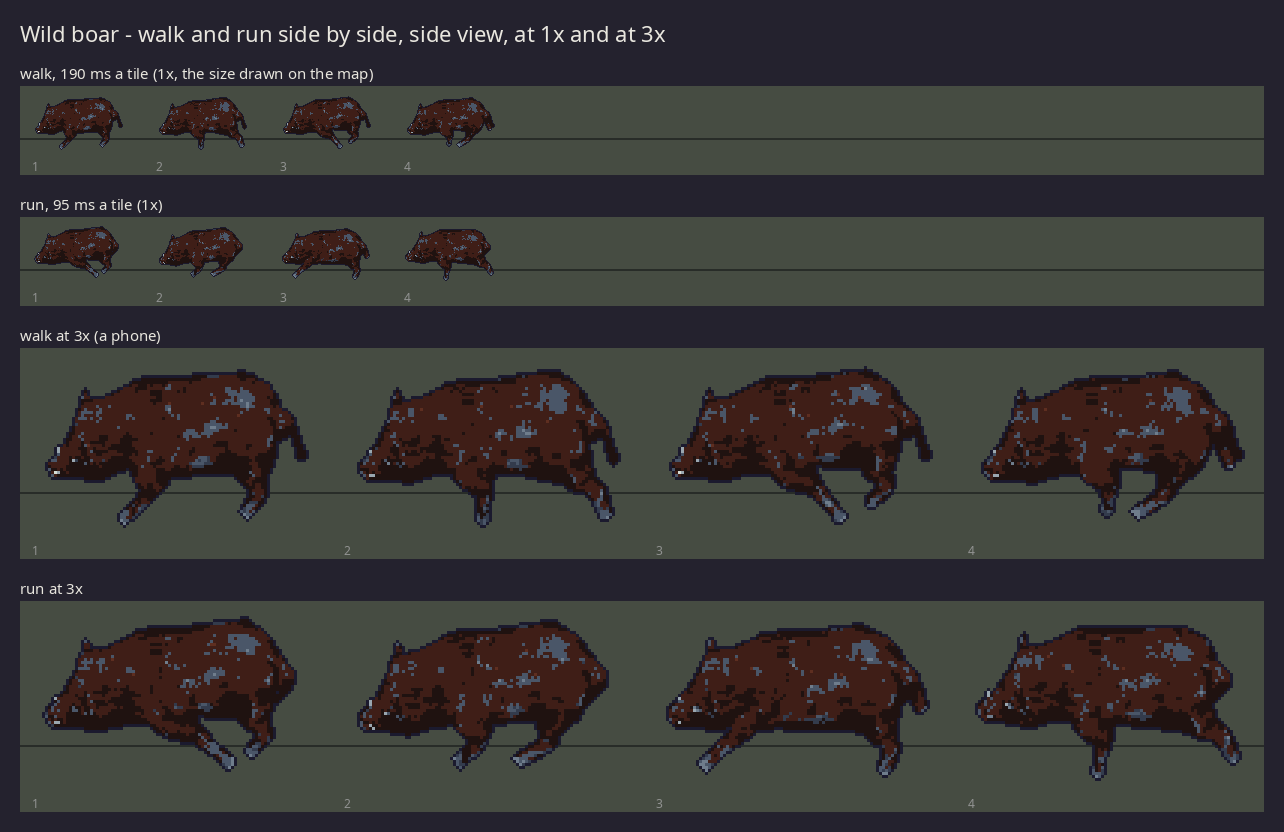
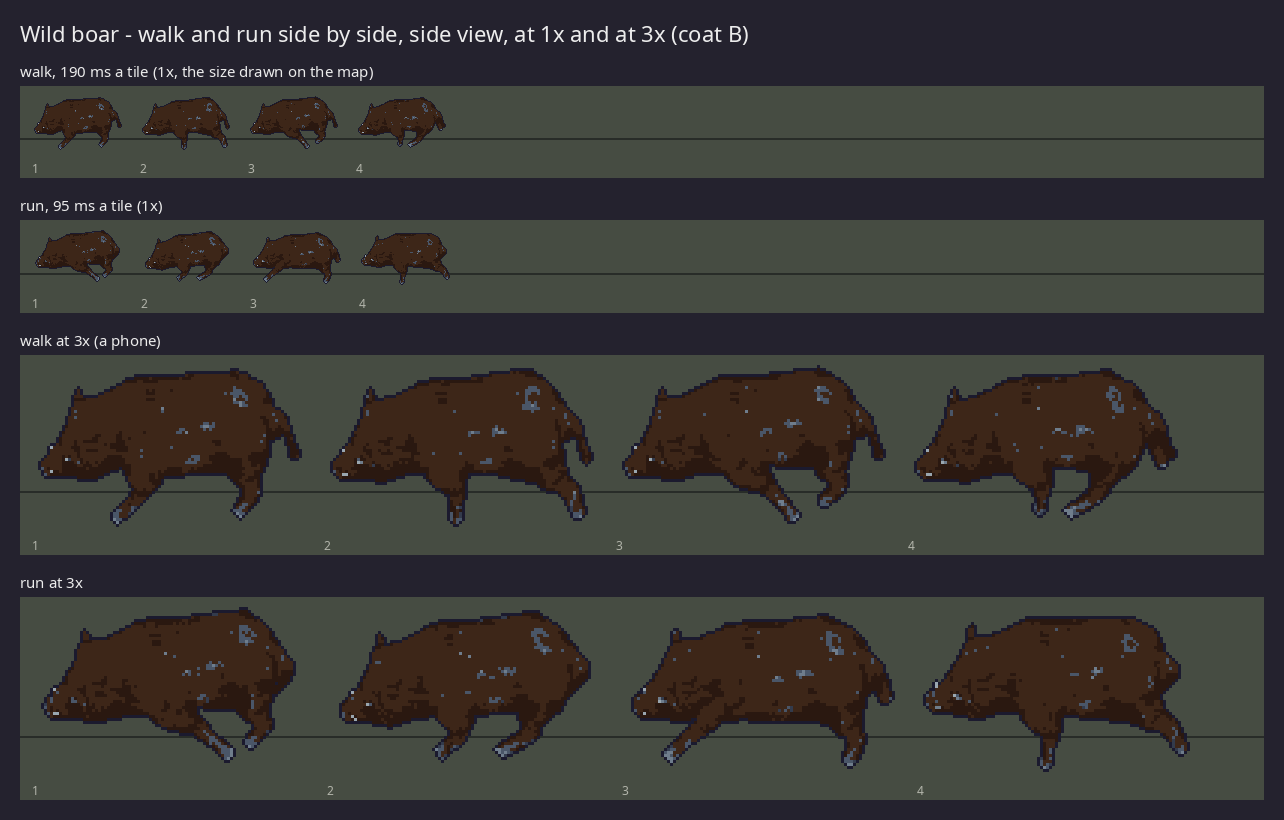
fix(anim): the boar's coat on the wood ramp, a fourth coat with no blue, and the take as a fade of any pose
- Coat: the first default (A, bark and stone) drew the coat's lighter
  hairs on stone as light blue-grey spots all over a dark brown body;
  on a phone they read as a fault of the drawing, not a grizzled boar.
  The boar target now draws on wood and stone (B): an even dark brown,
  stone down from 10.5 % to 4.4 % of the Idle (4.1 % over the six
  clips). All six clips are re-rendered and pass with the same
  measures (palette 100 %, outlined, the same silhouette, slide and
  pose rates); the tusks and the snout's disc still read at 1x and 3x.
- Coat page: four coats on the Idle's rest pose, B (the default), D,
  A (the old one) and C. D is bark for the body with the lighter hairs
  and the tusks on wood's warm light steps (bark, wood:2-5): no stone,
  so no blue.
- The clip tool takes a span of a ramp: a body ramp may be
  <id>:<a>-<b>, that shared ramp's steps a to b. D cannot be drawn
  without it: on whole bark and wood the body snaps to wood's dark
  steps, and on bark alone the hairs fall on a mid step and the tusks
  on orange. A sheet still names whole ramps, so the rich rule is
  unchanged; a test and the tools/anim README cover it, and D renders
  all six clips with palette 100 %.
- The take: HUNTING section 10 says only that a take is a fade and a
  drop of goods and names no pose. Lie is the SLEEP pose only, and the
  take fades whatever pose the boar holds (an owner question, default:
  fade the pose it holds), in the lie clip's about, the pass, DECISIONS
[…]

diff --git a/tools/src/anim/snap.ts b/tools/src/anim/snap.ts
@@ -18,11 +18,30 @@ export interface Picture {
 export type SnapClass = 'body' | 'fire' | 'metal' | 'leaf';
 const CLASSES: readonly SnapClass[] = ['body', 'fire', 'metal', 'leaf'];
 
+/**
+ * A body ramp as a target or a clip names it: a shared ramp's id, or `<id>:<a>-<b>` for that ramp's steps a to b only
+ * (0 is the darkest). A span lets a coat take one ramp's dark steps and another's light ones without the snap reaching
+ * for the rest (the boar's coat D: `bark` and `wood:2-5`, the lighter hairs on wood's warm steps instead of stone).
+ * Undefined when the name is neither.
+ */
+export function rampSteps(name: string): { id: string; steps: string[] } | undefined {
+  const [id = '', span, ...more] = name.split(':');
+  const ramp = coreRamp(id);
+  if (ramp === undefined || more.length > 0) return undefined;
+  if (span === undefined) return { id, steps: [...ramp.steps] };
+  const m = /^(\d+)-(\d+)$/.exec(span);
+  if (m === null) return undefined;
+  const a = Number(m[1]);
+  const b = Number(m[2]);
+  if (a > b || b >= ramp.steps.length) return undefined;
+  return { id, steps: ramp.steps.slice(a, b + 1) };
+}
+
 export function rampColours(ids: readonly string[]): string[] {
   const out: string[] = [];
-  for (const id of ids) {
-    const ramp = coreRamp(id);
-    if (ramp === undefined) throw new Error(`"${id}" is not a shared ramp`);
+  for (const name of ids) {
+    const ramp = rampSteps(name);
+    if (ramp === undefined) throw new Error(`"${name}" is not a shared ramp or a span of one (<id>:<a>-<b>)`);
     for (const step of ramp.steps) if (!out.includes(step)) out.push(step);
   }
   return out;
@@ -35,10 +54,11 @@ export function classPalettes(body: readonly string[], metal: string, leaf = 'gr
 
 /**
  * The shared ramps a sheet draws in, by id: what its json names as `ramps`, and what a kit entry for it must name
- * (the rich rule, tools/src/kit/rich.ts) so that every colour of the sheet is one of the sprite's ramps.
+ * (the rich rule, tools/src/kit/rich.ts) so that every colour of the sheet is one of the sprite's ramps. A span names
+ * its whole ramp: its steps are that ramp's.
  */
 export function sheetRamps(body: readonly string[], metal: string, leaf = 'green'): string[] {
-  return [...new Set([...body, 'fire', metal, leaf])];
+  return [...new Set([...body.map((r) => rampSteps(r)?.id ?? r), 'fire', metal, leaf])];
 }
 
 export function lab(r: number, g: number, b: number): [number, number, number] {

diff --git a/tools/test/anim.test.ts b/tools/test/anim.test.ts
@@ -11,8 +11,8 @@ import { type Clip, clipNames, clipPaces, clipProblems, job, type Library, paces
 import { onTarget, outDir } from '../src/anim/cli';
 import { archiveProblems, itchUploads, sha256, unpack } from '../src/anim/fetch';
 import { fourBeatProblems, footfalls, measureClip, outlineOf, paletteShare, plantedRuns, type RenderMeta, sharedSlope, silhouette, slideAtPace, stride } from '../src/anim/measure';
-import { classPalettes, flipX, type Picture, rampColours, sheetRamps, snap } from '../src/anim/snap';
-import { CORE_PALETTE, CORE_RAMPS } from '../src/kit/palette';
+import { classPalettes, flipX, type Picture, rampColours, rampSteps, sheetRamps, snap } from '../src/anim/snap';
+import { CORE_PALETTE, CORE_RAMPS, coreRamp } from '../src/kit/palette';
 import { allowedColors } from '../src/kit/ramps';
 import { CORE_KIT, richProblem } from '../src/kit/rich';
 import { applyInk, INK_HEX, inkShare } from '../src/kit/ink';
@@ -327,6 +327,22 @@ describe('snap', () => {
 
 describe('a sheet and the rich rule', () => {
   const core = CORE_PALETTE.map((h) => h.toLowerCase());
+  it('a body ramp may be a span of one shared ramp, the sheet naming the whole ramp; a bad span is refused', () => {
+    const wood = coreRamp('wood')?.steps ?? [];
+    const bark = coreRamp('bark')?.steps ?? [];
+    expect(rampSteps('wood')).toEqual({ id: 'wood', steps: wood });
+    expect(rampColours(['wood:2-5'])).toEqual(wood.slice(2));
+    expect(rampColours(['bark', 'wood:2-5'])).toEqual([...bark, ...wood.slice(2)]);
+    expect(classPalettes(['bark', 'wood:2-5'], 'grey').body).not.toContain(wood[0]);
+    expect(sheetRamps(['bark', 'wood:2-5'], 'grey')).toEqual(['bark', 'wood', 'fire', 'grey', 'green']);
+    for (const bad of ['wood:4-2', 'wood:2-6', 'wood:2', 'wood:2-', 'velvet:0-1', 'wood:0-1:2', '']) {
+      expect(rampSteps(bad), bad).toBeUndefined();
+      expect(() => rampColours([bad]), bad).toThrow(/not a shared ramp/);
+    }
+    const lie = readClip('boar_lie');
+    expect(clipProblems('boar_lie', { ...lie, ramps: ['bark', 'wood:2-5'] }, libs, settings)).toEqual([]);
+    expect(clipProblems('boar_lie', { ...lie, ramps: ['wood:3-9'] }, libs, settings).join(' ')).toMatch(/ramp "wood:3-9"/);
+  });
   it('names shared ramps that hold every colour a target can draw, and the core kit takes it at density 4', () => {
     for (const [id, t] of Object.entries(settings.targets)) {
       const ramps = sheetRamps(t.ramps, t.metal, t.leaf);

diff --git a/tools/src/anim/clip.ts b/tools/src/anim/clip.ts
@@ -5,8 +5,8 @@
  */
 import { existsSync, readdirSync, readFileSync } from 'node:fs';
 import { join } from 'node:path';
-import { coreRamp } from '../kit/palette.js';
 import { REPO_ROOT } from '../load.js';
+import { rampSteps } from './snap.js';
 
 export const ANIM_DIR = join(REPO_ROOT, 'tools', 'anim');
 export const CLIPS_DIR = join(ANIM_DIR, 'clips');
@@ -228,7 +228,7 @@ export function clipProblems(name: string, clip: Clip, libs: Record<string, Libr
   else if (!isNum(ax) || !isNum(ay) || ax < 0 || ay < 0 || ax > w || ay > h) say('frame.anchor (the feet) lies inside the frame');
   if (!Array.isArray(clip.views) || clip.views.length === 0 || !clip.views.every((v) => VIEWS.includes(v))) say(`views are some of ${VIEWS.join(', ')} (right is left mirrored)`);
   if (clip.ms !== undefined && (!Array.isArray(clip.ms) || clip.ms.length !== count || !clip.ms.every((m) => isInt(m) && m > 0))) say(`ms is ${count} whole positive numbers, one per pose`);
-  for (const r of clip.ramps ?? []) if (coreRamp(r) === undefined) say(`ramp "${r}" is not a shared ramp`);
+  for (const r of clip.ramps ?? []) if (rampSteps(r) === undefined) say(`ramp "${r}" is not a shared ramp or a span of one (<id>:<a>-<b>)`);
   if (clip.locomotion !== undefined) {
     if (clip.locomotion.playback !== 'distance' && clip.locomotion.playback !== 'time') say('locomotion.playback is distance or time');
     if (clip.locomotion.pace_ms !== undefined && (!isInt(clip.locomotion.pace_ms) || clip.locomotion.pace_ms <= 0)) say('locomotion.pace_ms is a whole number of milliseconds a tile');

diff --git a/game/tools/blender/boar_pass.py b/game/tools/blender/boar_pass.py
@@ -12,8 +12,8 @@ What it does, in the manner of quad_pass.py (the wolf) and deer_pass.py (the dee
   at export) on the mesh's `UVMap` layer, and drops the unused `projection-test` layer; the map draws nearly black on
   the ramps (the coat's median value 0.27 of white), so the coat is lifted to a dark grey-brown with grey bristle
   tips and written into a new packed map (--coat-gain, --coat-gamma, --coat-grey, --grizzle; the tusks' white is left
-  alone; on the bark and stone ramps the snap still draws it on bark's two darkest steps, a dark red-brown, with
-  patches of stone), and the snout's disc and the hooves get a plain dark material,
+  alone; the boar target draws it on the wood and stone ramps, an even dark brown with a few stone flecks: coat B,
+  the other coats in the comment at the coat below), and the snout's disc and the hooves get a plain dark material,
 - clears the file's scene properties (its sprite-sheet settings and a project time), so the glb carries no extras but
   the walk's and the run's groundSpeed,
 - turns the body to face -Y (the file's boar faces +Y), centres it over the origin, scales it to --height metres at the
@@ -36,7 +36,8 @@ What it does, in the manner of quad_pass.py (the wolf) and deer_pass.py (the dee
   Graze  rooting: the snout down to the earth, pushing forward and up, then a lift and a toss of the head (no soil is
          drawn; the ground is not rendered). Each key's neck and head bend is solved so the snout touches the floor
          the hooves stand on and never goes below it (the renderer stands a pose on its lowest point).
-  Lie    on its side, the legs drawn in, held still: no fall is played and nothing twitches; the client fades it.
+  Lie    its sleep in the den (SLEEP only): on its side, the legs drawn in, held still; no fall is played and
+         nothing twitches. A take fades whatever pose the boar holds (HUNTING 10 names no pose), not this one.
   Charge the file's attack (a lowered head and an upward toss), renamed and baked; kept for the defender's charge once
          the fight exists, not rendered now,
 - caps the map at --tex pixels and exports one GLB with the seven clips on NLA tracks.
@@ -204,10 +205,13 @@ def principled(name):
 # the coat, written into the map itself (glTF carries the image, not a node chain): the file's coat is nearly black
 # (half its pixels under 8 % luminance); its value is lifted (v -> COAT_GAIN * v ** COAT_GAMMA, the hue kept), a share
 # COAT_GREY of it is turned grey and its lighter bristle tips greyer still (a share GRIZZLE, from COAT_GRIZZLE_FROM to
-# COAT_GRIZZLE_TO luminance). In the map that is a dark grey-brown. On the bark and stone ramps the snap still draws
-# it on bark's two darkest steps (#1f1210 and #3f1e17, about 80 % of a sheet's opaque pixels: a dark red-brown) with
-# the lighter hairs as patches on one stone step (#4a5668); the lift does not reach bark's middle steps. The pale
-# tusks (the white of the map) are left as they are and fall on stone's light steps.
+# COAT_GRIZZLE_TO luminance). In the map that is a dark grey-brown; how it draws is the target's ramps. The boar
+# target's wood and stone (coat B) put it on wood's two darkest steps (#3d2618 and #2a1810, 86 % of a sheet's opaque
+# pixels: an even dark brown) with a few of the lighter hairs and the hooves' lit faces on stone (4 %). On bark and
+# stone (coat A, the first default) the same map took bark's two darkest steps (a dark red-brown) with the lighter
+# hairs as blue-grey patches on stone (#4a5668, 9 % of the Idle); on bark with wood's lighter steps (coat D, `bark`
+# and `wood:2-5`) the lighter hairs take wood's warm #6e4226 and no stone is drawn. The lift does not reach either
+# ramp's middle steps. The pale tusks (the white of the map) are left as they are and fall on the ramps' palest steps.
 COAT_GAIN, COAT_GAMMA = opt("--coat-gain", 1.0, float), opt("--coat-gamma", 0.6, float)
 COAT_GREY = opt("--coat-grey", 0.5, float)   # the share of grey in the whole coat (in the map, grey-brown and not red)
 GRIZZLE, COAT_GRIZZLE_FROM, COAT_GRIZZLE_TO = opt("--grizzle", 0.9, float), 0.10, 0.22

diff --git a/DECISIONS.md b/DECISIONS.md
@@ -3760,15 +3760,16 @@ Numbers: the phone's first-screen transfer (HTML, CSS, faces, scene, the 3D door
 
 ## 2026-10-30 ✅ The wild boar's body: one CC0 boar, six loops, four poses a loop
 
[2 lines of base64/hex data omitted]
 **What it fixes:** the defender of the hunting foundations has a body that reads as a wild boar at a tile (the wedge of a body with high shoulders, the long snout with its dark disc, the pale tusks, short legs) and in the down view (the face, the snout and both tusks toward the camera), with the bluff (HUNTING 2, DEFEND; the sounder's leader alone plays it, HUNT_FAMILIES 6 in #451) as its own loop. Nothing that belongs to the boar alone (tusks, mane) is in the bones, so the wood hog proposed in HUNT_FAMILIES 6 can take the same body with other ramps or a second look.
-**The coat:** the file's colour map draws nearly black on the ramps (the coat's median value 0.27 of white). The pass lifts it in the map (value to the power 0.6, half of it grey, the light hairs greyer still), so the map is a dark grey-brown with the tusks left white. The sheet does not draw it so: on `bark` and `stone` the snap still puts the coat on bark's two darkest steps (`#1f1210` and `#3f1e17`, 80 % of all opaque pixels over the six clips and 99.6 % of the bark pixels; bark's middle steps get 0.3 %), a dark red-brown, and the lighter hairs fall on one stone step (`#4a5668`, 8 %) as blue-grey patches, a cross-shaped mark on the forehead in the down view. `2026-10-30-boar-coat.png` sets three coats side by side on the Idle's rest pose: A, as drawn; B, the same map on the `wood` ramp in place of bark (`#3d2618` 66 % and `#2a1810` 20 % of the Idle's pixels, an even mid brown with few patches); C, a greyer coat on bark and stone (`--coat-grey 0.85` in place of 0.5: stone's `#333b4c`, `#4a5668` and `#1e2230` 73 % of the Idle's pixels, a slate grey with bark's darkest step left in the shadows). HUNT_FAMILIES 7 (#451) gives the pigs dark grey, brown or black. B is a change of the target's ramps, C a pass option and a new glb; either re-renders the six clips. No young is drawn (HUNTING 10).
+**The coat:** the file's colour map draws nearly black on the ramps (the coat's median value 0.27 of white). The pass lifts it in the map (value to the power 0.6, half of it grey, the light hairs greyer still), so the map is a dark grey-brown with the tusks left white; how that draws is the target's ramps. `2026-10-30-boar-coat.png` sets four coats side by side on the Idle's rest pose (shares of the Idle's opaque pixels, the outline included). **B, the default** (`anim.json`: `wood` and `stone`): wood's two darkest steps (`#3d2618` 66 % and `#2a1810` 20 %), an even dark brown; stone keeps 4.4 % (`#4a5668` 3.5 %, `#6f7d8c` 0.6 %): a few blue-grey flecks, the largest a small crescent on the haunch side-on, and the hooves' lit faces. Over the six clips wood's two dark steps are 86 % of the opaque pixels and stone 4.1 %. **D** (`["bark", "wood:2-5"]`): bark's two darkest steps for the body (`#3f1e17` 56 %, `#1f1210` 26 %), the lighter hairs on wood's warm `#6e4226` (8.3 %) and the tusks on wood's cream top step `#ebd3a2`; no stone, so no blue anywhere: a dark red-brown grizzled in warm brown. **A, the first default** (`bark` and `stone`): bark's two darkest steps (`#3f1e17` 53 %, `#1f1210` 26 %), a dark red-brown, with the lighter hairs on stone (`#4a5668` 8.9 %, stone 10.5 % in all) as light blue-grey patches all over the body and a cross-shaped mark on the forehead in the down view; on a phone they read as a fault of the drawing, not as a grizzled boar, which is why B replaces it. **C**, a greyer coat on bark and stone (`--coat-grey 0.85` in place of 0.5, a new glb): stone's steps 73.5 % (`#333b4c` 49 %, `#4a5668` 12 %, `#1e2230` 12 %), a slate grey with bark's darkest step (`#1f1210` 17 %) in the shadows. HUNT_FAMILIES 7 (#451) gives the pigs dark grey, brown or black. B, D and A differ only in the target's ramps (one line of `anim.json`, the glb untouched); C is a pass option and a new glb; any change re-renders the six clips. No young is drawn (HUNTING 10).
+**The clip tool takes a span of a ramp:** a body ramp in `anim.json` or a clip may now be `<id>:<a>-<b>`, that shared ramp's steps a to b only (0 the darkest; `rampSteps` in `tools/src/anim/snap.ts`, the tools/anim README and a test). D needs it. The snap gives each pixel the nearest colour of all the body ramps' steps: on whole `bark` and `wood` the coat's grey-brown lands on wood's two dark steps (70 % of the Idle on `#3d2618`), nearer to it than bark's, so the body would be wood; on `bark` alone the lighter hairs fall on bark's mid step `#5e2e20` with little contrast and the tusks on its orange top step. With `wood:2-5` wood's dark steps are out of reach: the body stays on bark and the hairs and the tusks take wood's warm light steps. A sheet's json still names whole ramps (`bark`, `wood`), so the rich rule is unchanged, and D renders all six clips with palette 100 % and the outline on every frame.
 **The paces are the rules':** the walk is judged at the kernel's walk (190 ms a tile, 337 px/s) and the run at the run (95 ms a tile, 674 px/s). Four poses keep the feet planted only over a cycle of at least 45 px (walk) and 90 px (run) in every view (ANIMATION 5.4, at most 30 poses a second), so the walk covers 0.95 m a cycle (0.71 m/s, a keyed duty of 0.65, 0.66 measured over its 32 frames) and the run 2.0 m (4.0 m/s, a keyed duty of 0.30, 0.33 measured over its 12 frames); 1.9 m put the run at 29.8 poses a second, too close to the cap, and at 2.0 m near full height (below) it plays 26.9.
 **The walk is a calm pace, not a trot:** the file's walk swings the diagonal pairs together, so it is dropped. The keyed walk lands hind left, fore left, hind right, fore right, a quarter of the cycle apart, three hooves on the ground in every drawn pose, a low swing, the body carried level and a little lower with no bob and the head 14 degrees lower than standing. Its stride is 1.19 times the withers height, the same floor that made the roe deer's walk brisk rather than calm (the deer family's entry, #455); the owner's question is below.
 **The run is a rotary gallop** (hind left, hind right, fore right, fore left): in the transverse order one pose gathers both far legs under the belly, the lump the deer showed. The body is carried 3 cm under its standing height with 1.5 cm of bob and 3 degrees of rock, the head low and forward; the fore hooves' stance is centred 8 cm ahead of their rest spots (4 cm before) and each fore swing reaches past its landing spot and draws back onto it (it leaves and meets the ground at the ground's speed), and the hind stance is centred under the hips (6 cm ahead before). Carried 10 cm low, as first drawn, every run pose was shorter and lower side-on than every walk pose (84 to 86 by 47 to 49 px against 88 by 51 to 53), and the two loops read alike at a tile. Now the run's side box is 84 to 89 by 51 to 52 px: as tall as the walk, its two reaching poses 88 and 89 px long and its two gathered ones 84 and 85. Four poses of these short legs reach no further: a duty of 0.38 (a longer planted stance) slid the planted hooves 3.7 px, and a hind follow-through stretched the legs toward the camera of the up view (its silhouette 11.1 %, over the 10 % limit, and the hooves on the frame's edge). `2026-10-30-boar-walk-vs-run.png` sets the two side by side at 1x and at 3x: the walk with its legs under it and its tail hanging, the run with its legs reaching fore and aft and its tail up; the owner's question is below.
 **The bluff ends on a stamp:** the fourth pose lifts the near forefoot 12 cm and carries it 3 cm forward, the weight shifted back and the head a little lower, and the hoof comes down by the first pose. As first keyed the lift was `sin(pi * stamp)`, which is 0 at the key, so the hoof was down in every drawn pose and the fourth pose repeated the first (8 to 15 silhouette pixels apart); now poses 1 and 4 differ by 285 / 164 / 127 pixels (side / down / up), and every pair of the four by 94 to 730.
 **The graze touches the ground and no lower:** the renderer stands each pose on its lowest point, so a snout pushed below the hooves' floor lifted the whole boar 8 cm off it in the first render. The pass now solves each key's neck and head bend so the lowest point of the head sits 3 mm above the floor (the bend scaled to 0.59, 0.53 and 0.81 of the first keys); the snout reaches the ground in three of the four poses and tosses up in the fourth.
-**The take is the client's:** Lie is one still pose on its side with the legs drawn in, as the deer's; no fall is played, nothing twitches, there is no death clip, and the client fades it (HUNTING 10). For the boar the same pose is its sleep in the den.
-**Evidence:** `pnpm anim check` passes every clip. Palette 100 %, the outline on every frame, nothing clipped at the 128 px frame (anchor 64, 92). Silhouette, down / up / left: boar_idle 2.11 / 1.03 / 1 %; boar_walk 0.32 / 3.18 / 1.96 % with a cycle of 47.7 / 47.6 / 62.2 px, a slide of 0.23 / 0.55 / 0.52 px, 28.3 / 28.3 / 21.7 poses a second and the footfalls LB LF RB RF at 0.25 each; boar_run 1.33 / 8.59 / 2.46 % with a cycle of 100.1 / 100.4 / 130.9 px, a slide of 0.43 / 0.23 / 0.33 px and 26.9 / 26.8 / 20.6 poses a second; boar_alert 2.46 / 4.55 / 2.08 %; boar_graze 0.37 / 1.25 / 0.28 %; boar_lie one pose; every clip holds the default foot-slide limit of 1 px (no clip moves it). The glb plays Idle 96, Walk 32, Run 12, Alert 48, Graze 48, Lie 8 and Charge 19 frames at 24 fps, the lengths `anim.json` declares; the worst hoof error of the IK bake is 0.0 mm; its only extras are the walk's and the run's groundSpeed (the file's scene properties, its sprite-sheet settings and a project time, are dropped).
-**For the owner to pick from the pages:** whether this body reads as the wild boar at a tile and on a phone, or a drawn body should replace it (the clips keep their frames and take the new body); which coat of `2026-10-30-boar-coat.png`: A as drawn (a dark red-brown with stone patches), B on the wood ramp (a mid brown) or C greyer (a slate grey) (recommended default: A, as drawn); whether the walk, level and head low but brisk at the 45 px floor, will do (recommended default: keep the rules' walk and look again on a phone, as for the roe deer); whether the run reads apart from the walk at a tile (`2026-10-30-boar-walk-vs-run.png`: as tall as the walk now and reaching fore and aft, but at 1x the two differ mostly by the legs, the tail and the rate) (recommended default: keep it and look again on a phone with the walk); whether the lying pose on its side reads as asleep and unhurt, or the boar should lie on its belly with the legs folded under (recommended default: on its side, the deer's pose); and the frame budget once the fight comes: this sheet is 21 poses (idle 4, walk 4, run 4, alert 4, graze 4, lying 1, 63 frames at three views), and the fight's hurt 2 and charge 4 with HUNT_FAMILIES 7's graze cut to 2 for a fight family make 25 poses (75 frames, over ANIMATION 5.2's cap of 69) unless the bluff becomes one held pose (22 poses, 66 frames) or ANIMATION 5.2's quadruped budget rises (recommended default: keep the four-pose bluff now and decide with the fight).
-**Retry when:** the owner picks a drawn body, the fight lands (then render Charge and add hurt, inside the budget the owner picks), or the hunting rules give an animal its own step time. Model: Claude Opus 5.5 (an outside developer's pull request; the pick is the owner's).
+**Lie is the SLEEP pose only:** one still pose on its side with the legs drawn in, its sleep in the den (09 to 19); no fall is played and nothing twitches. Section 10 makes a take a fade and a drop of goods and names no pose, so no pose is tied to the take and no death clip is keyed: the take fades whatever pose the boar holds (the owner's question below).
+**Evidence:** `pnpm anim check` passes every clip, drawn on coat B; D, rendered on all six clips, gives the same measures (the silhouette, the outline and the feet do not depend on the ramps). Palette 100 %, the outline on every frame, nothing clipped at the 128 px frame (anchor 64, 92). Silhouette, down / up / left: boar_idle 2.11 / 1.03 / 1 %; boar_walk 0.32 / 3.18 / 1.96 % with a cycle of 47.7 / 47.6 / 62.2 px, a slide of 0.23 / 0.55 / 0.52 px, 28.3 / 28.3 / 21.7 poses a second and the footfalls LB LF RB RF at 0.25 each; boar_run 1.33 / 8.59 / 2.46 % with a cycle of 100.1 / 100.4 / 130.9 px, a slide of 0.43 / 0.23 / 0.33 px and 26.9 / 26.8 / 20.6 poses a second; boar_alert 2.46 / 4.55 / 2.08 %; boar_graze 0.37 / 1.25 / 0.28 %; boar_lie one pose; every clip holds the default foot-slide limit of 1 px (no clip moves it). The glb plays Idle 96, Walk 32, Run 12, Alert 48, Graze 48, Lie 8 and Charge 19 frames at 24 fps, the lengths `anim.json` declares; the worst hoof error of the IK bake is 0.0 mm; its only extras are the walk's and the run's groundSpeed (the file's scene properties, its sprite-sheet settings and a project time, are dropped).
+**For the owner to pick from the pages:** whether this body reads as the wild boar at a tile and on a phone, or a drawn body should replace it (the clips keep their frames and take the new body); which coat of `2026-10-30-boar-coat.png`: B on wood and stone (an even dark brown, a few blue-grey flecks and blue-grey hooves), D bark with wood's lighter steps (a dark red-brown grizzled in warm brown, no blue), A the first default (a dark red-brown with blue-grey patches) or C greyer (a slate grey) (recommended default: B, the drawn sheet; D if the last flecks still read as faults on a phone); whether the walk, level and head low but brisk at the 45 px floor, will do (recommended default: keep the rules' walk and look again on a phone, as for the roe deer); whether the run reads apart from the walk at a tile (`2026-10-30-boar-walk-vs-run.png`: as tall as the walk now and reaching fore and aft, but at 1x the two differ mostly by the legs, the tail and the rate) (recommended default: keep it and look again on a phone with the walk); whether the lying pose on its side reads as asleep and unhurt, or the boar should lie on its belly with the legs folded under (recommended default: on its side, the deer's pose); a take: fade the pose the boar holds, or lay it down first and fade a lying pose (the deer's, the hare's and the crow's branches key a lying pose on the side for it) (recommended default: fade the pose it holds; the boar's Lie is its sleep, and a body that drops to the floor before it fades comes close to the downed animal section 10 keeps out); and the frame budget once the fight comes: this sheet is 21 poses (idle 4, walk 4, run 4, alert 4, graze 4, lying 1, 63 frames at three views), and the fight's hurt 2 and charge 4 with HUNT_FAMILIES 7's graze cut to 2 for a fight family make 25 poses (75 frames, over ANIMATION 5.2's cap of 69) unless the bluff becomes one held pose (22 poses, 66 frames) or ANIMATION 5.2's quadruped budget rises (recommended default: keep the four-pose bluff now and decide with the fight).
+**Retry when:** the owner picks a drawn body or another coat (D or A: one line of `anim.json`; C: a pass option and a new glb), the fight lands (then render Charge and add hurt, inside the budget the owner picks), or the hunting rules give an animal its own step time. Model: Claude Opus 5.5 (an outside developer's pull request; the pick is the owner's).

diff --git a/tools/anim/README.md b/tools/anim/README.md
@@ -69,6 +69,10 @@ supersampled renders, the ID pass, the projected feet) and `job.json` (what Blen
 - `set`: pieces fixed on the ground by the body, `herb` (a leafy tuft, about 0.32 m) and `bush` (a berry bush, about
   0.8 m), at `[x, y]` metres in body axes on the IK side, `size` scaling them. They turn with the body in each view.
 - `worn`: parts carried on the hips, `pouch`, at `[x, y, z]` metres from the hips joint in body axes.
+- `ramps`: the body ramps in place of the target's (a target names its own the same way). Each is a shared ramp's id
+  or `<id>:<a>-<b>`, that ramp's steps a to b only (0 is the darkest), so a coat can take one ramp's dark steps and
+  another's light ones and the snap never reaches for the rest; the wild boar's coat D is `["bark", "wood:2-5"]`.
+  The sheet's json names the whole ramp, so the rich rule is unchanged.
 
 ## A body with its own actions (native targets)
 
